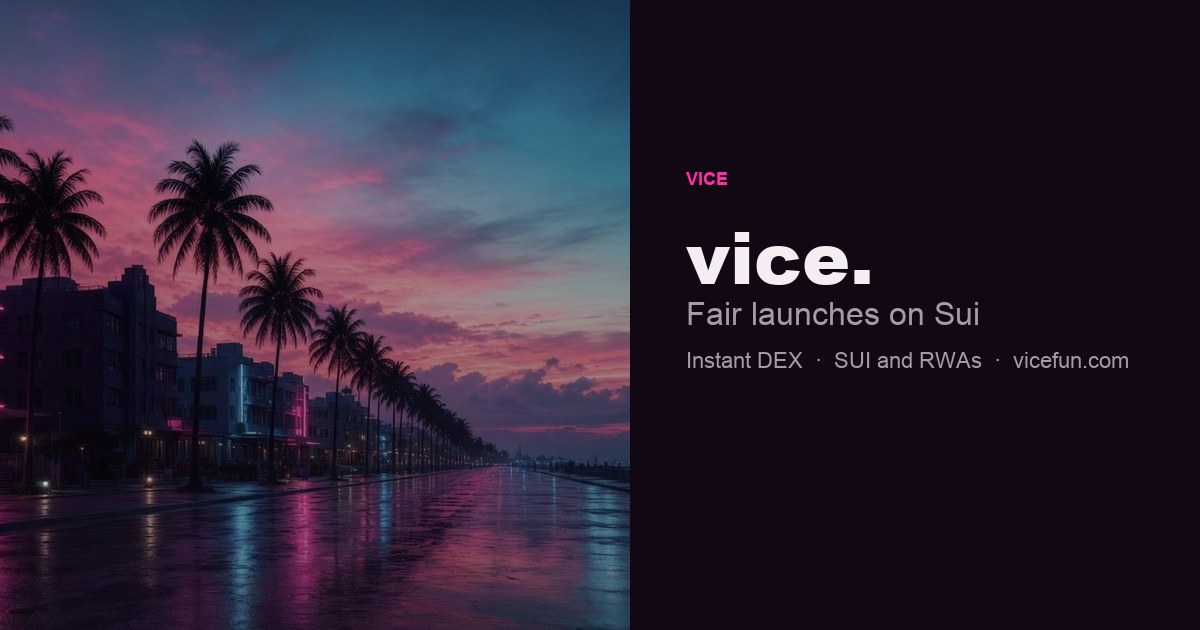
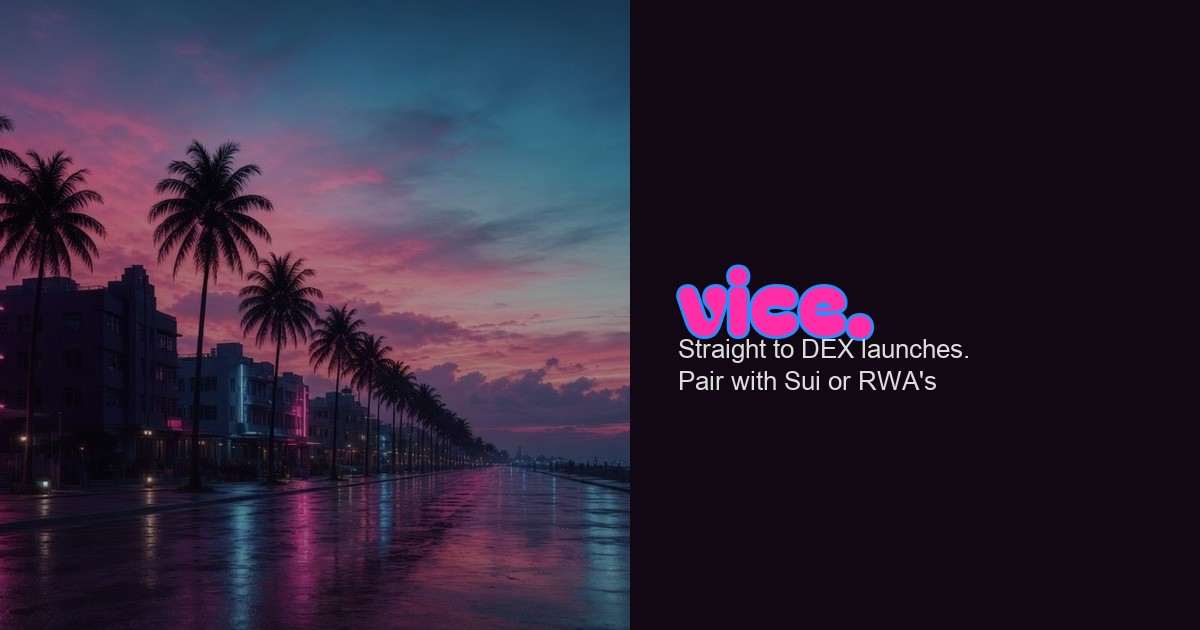
Match the homepage share card to the vice. wordmark and add Fight Night copy.
Preview card uses Bagel Fat One with the site tagline. Fight Night now explains the ring above the round pot.

Changed region(s): [[0.555, 0.3619, 0.925, 0.6333], [0.555, 0.2714, 0.6167, 0.3016]]

diff --git a/index.html b/index.html
@@ -4,11 +4,11 @@
 <meta charset="utf-8">
 <meta name="viewport" content="width=device-width, initial-scale=1">
 <title>Vice — Fair launches on Sui</title>
-<meta name="description" content="Instant DEX launches. Pair with SUI or RWAs.">
+<meta name="description" content="Straight to DEX launches. Pair with Sui or RWA's">
 <meta property="og:type" content="website">
 <meta property="og:site_name" content="Vice">
 <meta property="og:title" content="Vice — Fair launches on Sui">
-<meta property="og:description" content="Instant DEX launches. Pair with SUI or RWAs.">
+<meta property="og:description" content="Straight to DEX launches. Pair with Sui or RWA's">
 <meta property="og:image" content="https://vicefun.com/og.png">
 <meta property="og:image:secure_url" content="https://vicefun.com/og.png">
 <meta property="og:image:type" content="image/png">
@@ -17,7 +17,7 @@
 <meta property="og:url" content="https://vicefun.com/">
 <meta name="twitter:card" content="summary_large_image">
 <meta name="twitter:title" content="Vice — Fair launches on Sui">
-<meta name="twitter:description" content="Instant DEX launches. Pair with SUI or RWAs.">
+<meta name="twitter:description" content="Straight to DEX launches. Pair with Sui or RWA's">
 <meta name="twitter:image" content="https://vicefun.com/og.png">
 <meta name="twitter:image:width" content="1200">
 <meta name="twitter:image:height" content="630">
@@ -329,6 +329,9 @@ html[data-route="launch"] main,html[data-route="token"] main,html[data-route="me
 .btn-outline{background:transparent;color:var(--sui);border:1.5px solid var(--sui);border-radius:10px;padding:13px 22px;font-weight:700;letter-spacing:.12em;text-transform:uppercase;font-size:13px}
 .live-dot{display:inline-block;width:7px;height:7px;border-radius:99px;background:var(--pink);margin-right:8px;box-shadow:0 0 8px var(--pink)}
 .night-hero-copy{position:relative;z-index:1;padding:36px 40px 40px;max-width:46ch}
+.night-lede{margin:0 0 22px}
+.night-lede strong{display:block;font-size:clamp(22px,3.2vw,30px);letter-spacing:-.03em;font-weight:700;color:#fff;margin:0 0 8px}
+.night-lede p{margin:0;color:#ddd;font-size:clamp(14px,1.8vw,16px);line-height:1.45}
 .night-hero-copy .pit-pot{font-size:clamp(48px,7vw,72px);margin:8px 0 10px}
 .strip-body{padding-top:22px}
 .strip-head h1,.books-title{font-size:clamp(32px,5vw,52px);letter-spacing:-.04em;text-transform:uppercase;margin:0}
@@ -2841,6 +2844,10 @@ window.SUI_GRAPHQL = window.SUI_GRAPHQL || "https://graphql.mainnet.sui.io/graph
         '<img src="/brand/night-hero.jpg" alt="">'+
         '<div class="shade"></div>'+
         '<div class="night-hero-copy">'+
+          '<div class="night-lede">'+
+            '<strong>Fight Night</strong>'+
+            '<p>Instant launches go in the ring. Highest USD market cap over the last 24 hours takes the pot. When the bell rings, the pot buys the winner on Bluefin and burns it. A 0.1 SUI vote fills the ring — anonymous, and it does not pick who wins.</p>'+
+          '</div>'+
           '<div class="pit-kicker"><span class="live-dot"></span>Fight night · round <span data-round>'+pitRound()+'</span></div>'+
           '<div class="pit-pot" data-pot>'+money(pot)+'</div>'+
           '<div class="mono" style="font-size:18px;margin-bottom:10px"><span data-clock>'+clockStr()+'</span> until the bell</div>'+
@@ -3198,7 +3205,7 @@ window.SUI_GRAPHQL = window.SUI_GRAPHQL || "https://graphql.mainnet.sui.io/graph
       url = origin + "/t/" + encodeURIComponent(tk.t);
     } else {
       title = "Vice — Fair launches on Sui";
-      desc = "Instant DEX launches. Pair with SUI or RWAs.";
+      desc = "Straight to DEX launches. Pair with Sui or RWA's";
       image = origin + "/og.png";
       url = origin + "/";
     }

diff --git a/api/share.js b/api/share.js
@@ -126,7 +126,7 @@ async function page(request) {
     return htmlPage({
       origin,
       title: "Vice — Fair launches on Sui",
-      description: "Instant DEX launches. Pair with SUI or RWAs.",
+      description: "Straight to DEX launches. Pair with Sui or RWA's",
       image: origin + "/og.png",
       url: origin,
       dest: "/",
